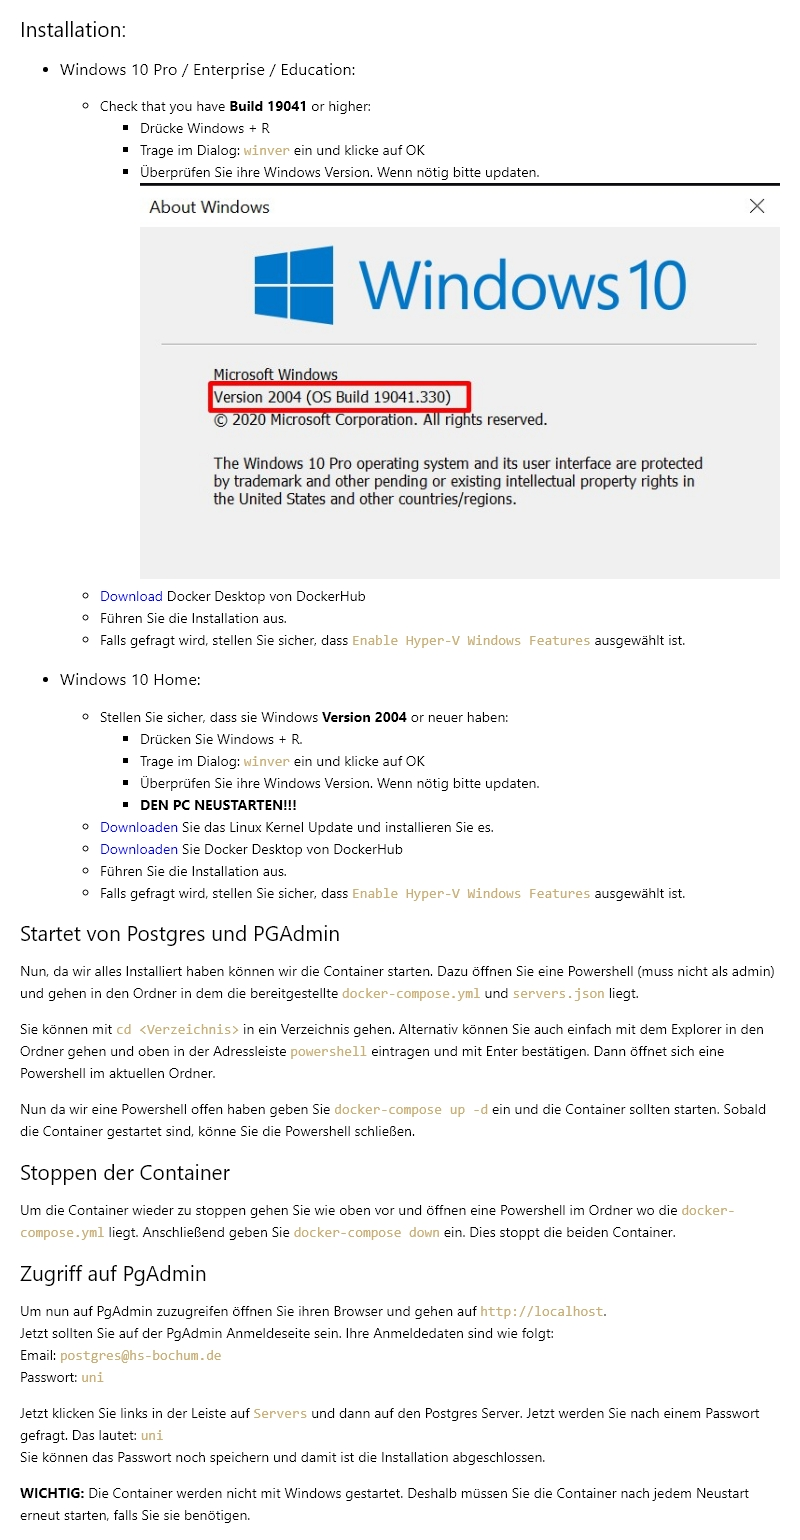
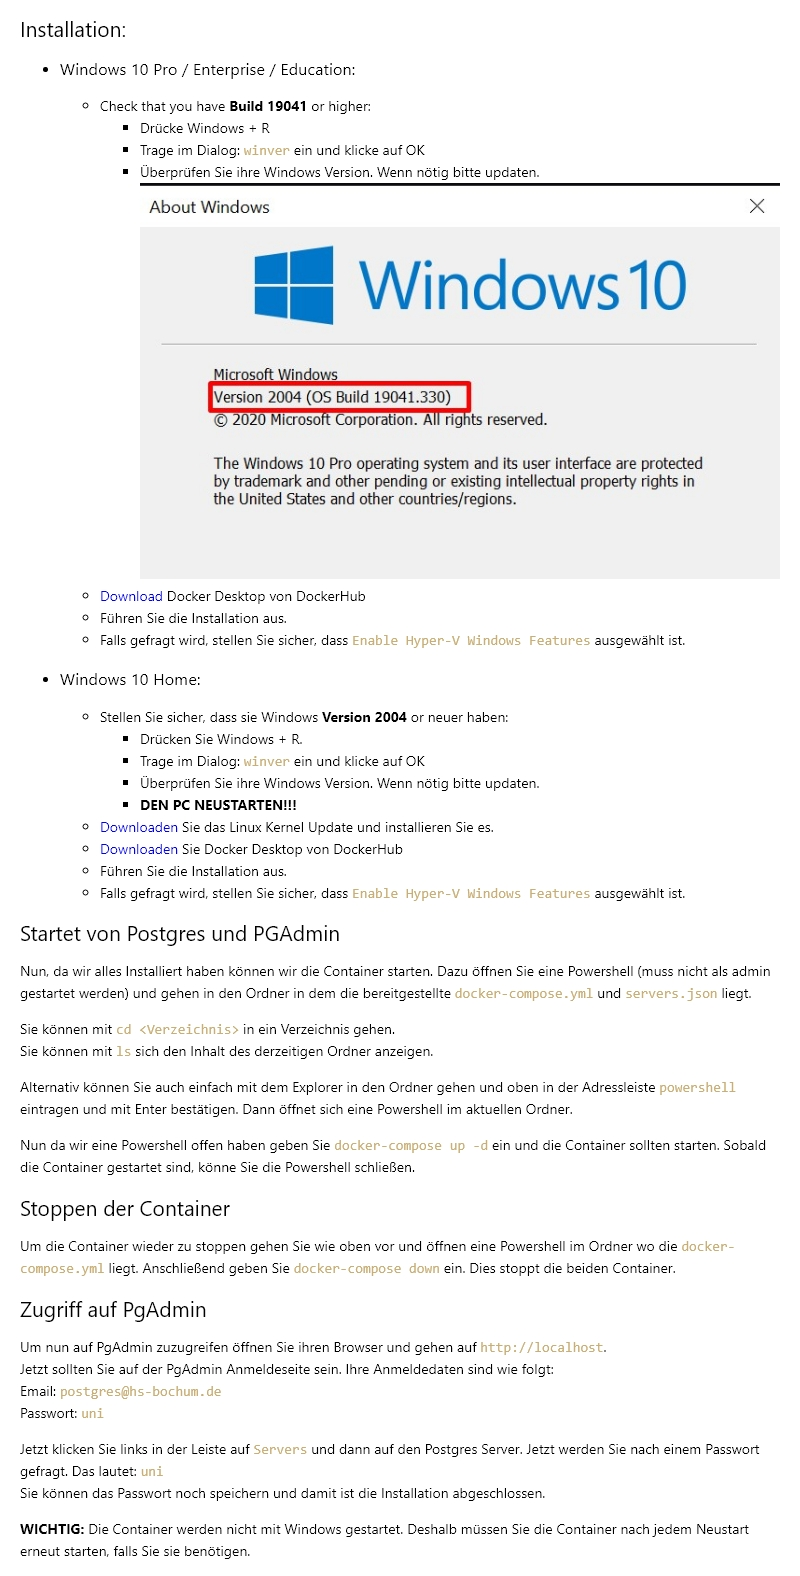
WindowsManual: Fixed typo

diff --git a/ManualWindows10.html b/ManualWindows10.html
@@ -403,9 +403,10 @@ code {
 </ul>
 <h2 id="startet-von-postgres-und-pgadmin">Startet von Postgres und PGAdmin</h2>
 <p>Nun, da wir alles Installiert haben können wir die Container starten.
-Dazu öffnen Sie eine Powershell (muss nicht als admin) und gehen in den Ordner in dem die bereitgestellte <code>docker-compose.yml</code> und <code>servers.json</code> liegt.</p>
-<p>Sie können mit <code>cd &lt;Verzeichnis&gt;</code> in ein Verzeichnis gehen.
-Alternativ können Sie auch einfach mit dem Explorer in den Ordner gehen und oben in der Adressleiste <code>powershell</code> eintragen und mit Enter bestätigen. Dann öffnet sich eine Powershell im aktuellen Ordner.</p>
+Dazu öffnen Sie eine Powershell (muss nicht als admin gestartet werden)  und gehen in den Ordner in dem die bereitgestellte <code>docker-compose.yml</code> und <code>servers.json</code> liegt.</p>
+<p>Sie können mit <code>cd &lt;Verzeichnis&gt;</code> in ein Verzeichnis gehen.<br>
+Sie können mit <code>ls</code> sich den Inhalt des derzeitigen Ordner anzeigen.</p>
+<p>Alternativ können Sie auch einfach mit dem Explorer in den Ordner gehen und oben in der Adressleiste <code>powershell</code> eintragen und mit Enter bestätigen. Dann öffnet sich eine Powershell im aktuellen Ordner.</p>
 <p>Nun da wir eine Powershell offen haben geben Sie <code>docker-compose up -d</code> ein und die Container sollten starten. Sobald die Container gestartet sind, könne Sie die Powershell schließen.</p>
 <h2 id="stoppen-der-container">Stoppen der Container</h2>
 <p>Um die Container wieder zu stoppen gehen Sie wie oben vor und öffnen eine Powershell im Ordner wo die <code>docker-compose.yml</code> liegt.

diff --git a/ManualWindows10.md b/ManualWindows10.md
@@ -21,7 +21,7 @@
 
 ## Startet von Postgres und PGAdmin
 Nun, da wir alles Installiert haben können wir die Container starten.
-Dazu öffnen Sie eine Powershell (muss nicht als admin) und gehen in den Ordner in dem die bereitgestellte ``docker-compose.yml`` und ``servers.json`` liegt.
+Dazu öffnen Sie eine Powershell (muss nicht als admin gestartet werden)  und gehen in den Ordner in dem die bereitgestellte ``docker-compose.yml`` und ``servers.json`` liegt.
 
 Sie können mit ``cd <Verzeichnis>`` in ein Verzeichnis gehen.  
 Sie können mit ``ls`` sich den Inhalt des derzeitigen Ordner anzeigen.  
